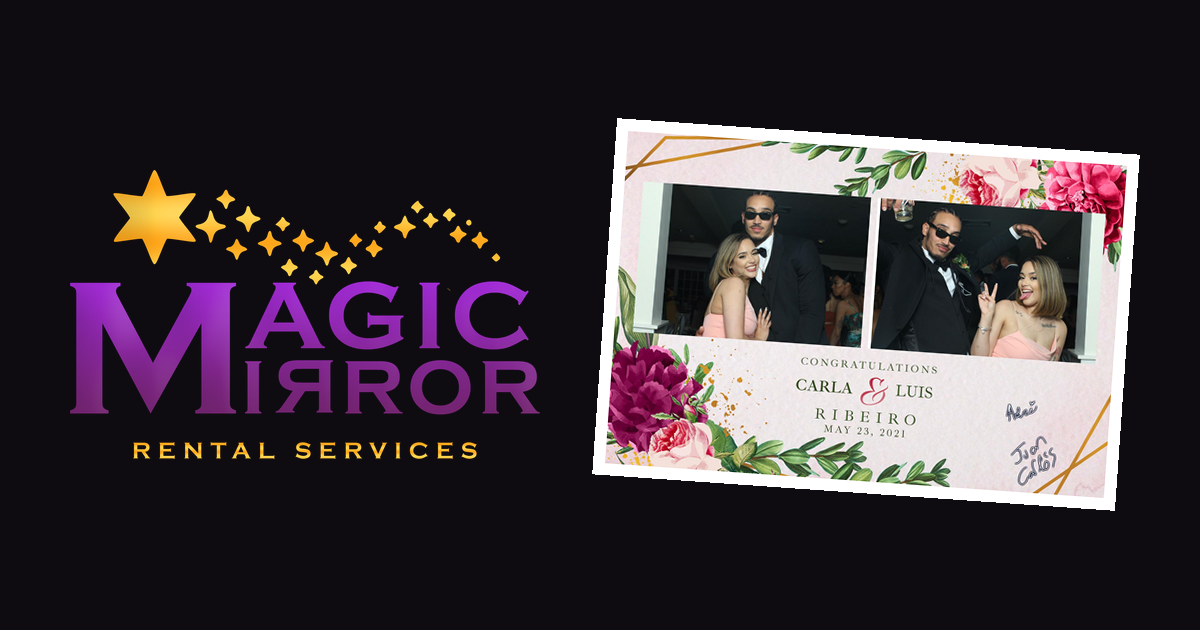
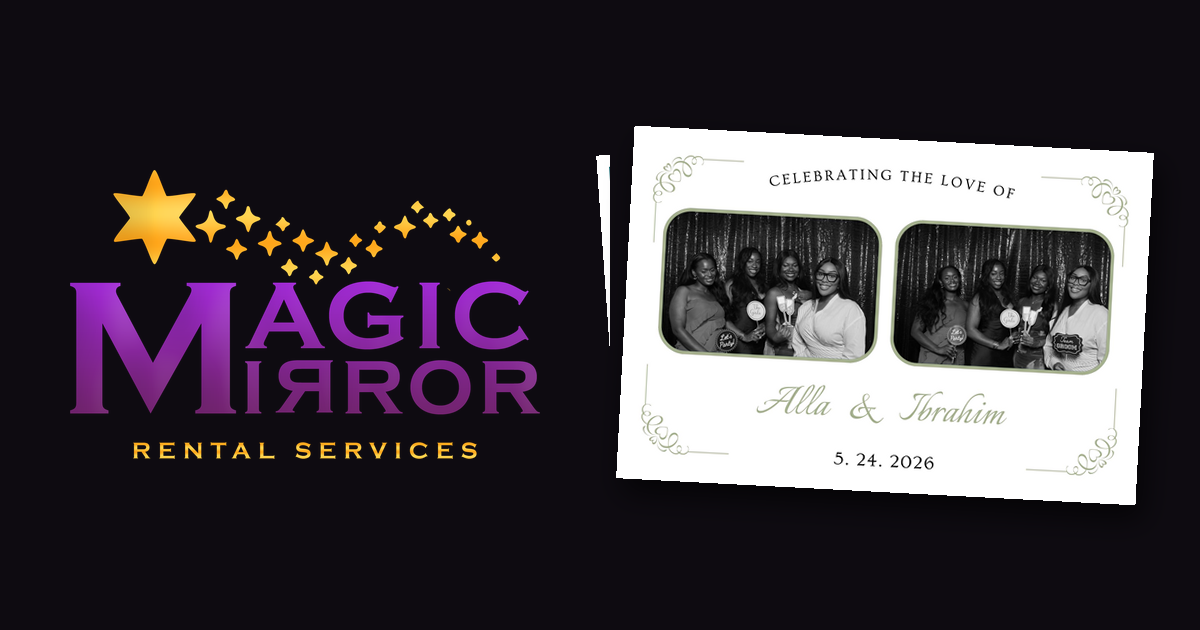
Newest prints on the home step, review photo, Magic Mirror page; rebuilt collage (every 5) and share images (every 3)
Claude-Session: https://claude.ai/code/session_01CWhRRKPWNMwNRg2cs9Nr1g

Changed region(s): [[0.4933, 0.181, 0.9867, 0.8143]]

diff --git a/public/pricing/index.html b/public/pricing/index.html
@@ -20,7 +20,7 @@
 <meta name="twitter:card" content="summary_large_image">
 <link rel="preload" href="/assets/fonts/montserrat-latin.woff2" as="font" type="font/woff2" crossorigin>
 <link rel="stylesheet" href="/assets/css/style.css?v=speed3">
-<script type="application/ld+json">{"@context": "https://schema.org", "@type": "LocalBusiness", "@id": "https://www.magicmirrorrentalservices.com/#business", "name": "Magic Mirror Rental Services", "description": "Magic Mirror photo booth rentals for weddings, corporate events, birthdays and special occasions across the Greater Boston Area.", "url": "https://www.magicmirrorrentalservices.com/", "logo": "https://www.magicmirrorrentalservices.com/images/brand/logo.webp", "image": "https://www.magicmirrorrentalservices.com/images/brand/og-image.png", "email": "inquiries@magicmirrorrentalservices.com", "foundingDate": "2019", "priceRange": "$650-$1100", "areaServed": {"@type": "Place", "name": "Greater Boston Area, Massachusetts"}, "sameAs": ["https://www.instagram.com/magicmirrorrentalservices/"], "makesOffer": [{"@type": "Offer", "name": "Bronze Package", "price": "650", "priceCurrency": "USD", "url": "https://www.magicmirrorrentalservices.com/pricing/", "itemOffered": {"@type": "Service", "name": "Magic Mirror photo booth rental, Bronze Package", "description": "Three hours of Magic Mirror photo booth service with unlimited photos, 4x6 prints, MMS and email sharing, and two on-site attendants."}}, {"@type": "Offer", "name": "Silver Package", "price": "850", "priceCurrency": "USD", "url": "https://www.magicmirrorrentalservices.com/pricing/", "itemOffered": {"@type": "Service", "name": "Magic Mirror photo booth rental, Silver Package", "description": "Four hours of Magic Mirror photo booth service with unlimited photos, 4x6 prints, MMS and email sharing, and two on-site attendants."}}, {"@type": "Offer", "name": "Gold Package", "price": "1100", "priceCurrency": "USD", "url": "https://www.magicmirrorrentalservices.com/pricing/", "itemOffered": {"@type": "Service", "name": "Magic Mirror photo booth rental, Gold Package", "description": "Five hours of Magic Mirror photo booth service with unlimited photos, 4x6 prints, MMS and email sharing, and two on-site attendants."}}]}</script>
+<script type="application/ld+json">{"@context": "https://schema.org", "@type": "LocalBusiness", "@id": "https://www.magicmirrorrentalservices.com/#business", "name": "Magic Mirror Rental Services", "description": "Magic Mirror photo booth rentals for weddings, corporate events, birthdays and special occasions across the Greater Boston Area.", "url": "https://www.magicmirrorrentalservices.com/", "logo": "https://www.magicmirrorrentalservices.com/images/brand/logo.webp", "image": "https://www.magicmirrorrentalservices.com/images/brand/og-image.png?v=1788655192435", "email": "inquiries@magicmirrorrentalservices.com", "foundingDate": "2019", "priceRange": "$650-$1100", "areaServed": {"@type": "Place", "name": "Greater Boston Area, Massachusetts"}, "sameAs": ["https://www.instagram.com/magicmirrorrentalservices/"], "makesOffer": [{"@type": "Offer", "name": "Bronze Package", "price": "650", "priceCurrency": "USD", "url": "https://www.magicmirrorrentalservices.com/pricing/", "itemOffered": {"@type": "Service", "name": "Magic Mirror photo booth rental, Bronze Package", "description": "Three hours of Magic Mirror photo booth service with unlimited photos, 4x6 prints, MMS and email sharing, and two on-site attendants."}}, {"@type": "Offer", "name": "Silver Package", "price": "850", "priceCurrency": "USD", "url": "https://www.magicmirrorrentalservices.com/pricing/", "itemOffered": {"@type": "Service", "name": "Magic Mirror photo booth rental, Silver Package", "description": "Four hours of Magic Mirror photo booth service with unlimited photos, 4x6 prints, MMS and email sharing, and two on-site attendants."}}, {"@type": "Offer", "name": "Gold Package", "price": "1100", "priceCurrency": "USD", "url": "https://www.magicmirrorrentalservices.com/pricing/", "itemOffered": {"@type": "Service", "name": "Magic Mirror photo booth rental, Gold Package", "description": "Five hours of Magic Mirror photo booth service with unlimited photos, 4x6 prints, MMS and email sharing, and two on-site attendants."}}]}</script>
 </head>
 <body>
 <a class="skip" href="#main">Skip to content</a>

diff --git a/public/index.html b/public/index.html
@@ -85,7 +85,9 @@
   <ol class="sc-steps reveal">
     <li><img src="/images/magic-mirror/9876.webp" width="1000" height="750" alt="A guest at the Magic Mirror, pointing at the glowing on-screen prompt" loading="lazy"><h3>They see themselves</h3><p>The full-length mirror shows guests their pose as the photo is taken, with animations and voice guidance leading the way.</p></li>
     <li><img src="/images/magic-mirror/pose-prop-group.webp" width="1000" height="800" alt="A group of friends in formal wear striking poses in front of a blue sequin backdrop" loading="lazy"><h3>They bring the crew</h3><p>Friends pile into frame, and our attendants make sure everyone fits.</p></li>
-    <li><img src="/images/gallery/1715916052182.webp" srcset="/images/gallery/1715916052182-sm.webp 480w, /images/gallery/1715916052182-thumb.webp 800w, /images/gallery/1715916052182.webp 1600w" sizes="(max-width: 900px) 38vw, 33vw" width="1500" height="1000" alt="A 4x6 print from Suffolk Law’s Barrister’s Ball at the Fairmont Copley Plaza" loading="lazy"><h3>They print</h3><p>Every session prints a 4x6 in seconds to take home, and guests can text or email their photos to themselves.</p></li>
+    <!-- events:home-step-print (built from content/events.txt, do not edit by hand) -->
+<li><img src="/images/gallery/1788655192435.webp" srcset="/images/gallery/1788655192435-sm.webp 480w, /images/gallery/1788655192435-thumb.webp 800w, /images/gallery/1788655192435.webp 1600w" sizes="(max-width: 900px) 38vw, 33vw" width="1600" height="1067" alt="A 4x6 print from Laury and Heroldens’ baby shower, September 2026" loading="lazy"><h3>They print</h3>
+<!-- /events:home-step-print --><p>Every session prints a 4x6 in seconds to take home, and guests can text or email their photos to themselves.</p></li>
   </ol>
 </section>
 
@@ -159,7 +161,9 @@
 </section>
 
 <section class="wrap voice" aria-label="What clients say">
-  <figure class="voice-print reveal"><img src="/images/gallery/1636174311505.webp" srcset="/images/gallery/1636174311505-thumb.webp 800w, /images/gallery/1636174311505.webp 1600w" sizes="(max-width: 900px) 100vw, 50vw" width="1500" height="1000" alt="Print from the BU African Student Organization Soirée" loading="lazy"></figure>
+  <!-- events:home-voice-print (built from content/events.txt, do not edit by hand) -->
+<figure class="voice-print reveal"><img src="/images/gallery/1775354153323.webp" srcset="/images/gallery/1775354153323-thumb.webp 800w, /images/gallery/1775354153323.webp 1600w" sizes="(max-width: 900px) 100vw, 50vw" width="1600" height="1067" alt="Print from NBSA’s Evening of Elegance, April 2026" loading="lazy"></figure>
+<!-- /events:home-voice-print -->
   <blockquote class="voice-quote reveal"><p>“Thank you for collaborating with us for the Soiree! ASO was very grateful for your attendance. All of our guests expressed that they loved the Magic Mirror.”</p><footer>BU African Student Organization</footer>
 <!-- events:home-wall-pool (built from content/events.txt, do not edit by hand) -->
 </blockquote>
@@ -192,7 +196,7 @@
 
 <section class="closing" aria-labelledby="closing-title">
   <div class="wrap closing-band reveal">
-    <img src="/images/magic-mirror/cta-collage.webp" width="1000" height="562" alt="Finished prints from a masquerade ball, a wedding, a senior prom, an honor ball and a celebration" loading="lazy">
+    <img src="/images/magic-mirror/cta-collage.webp?v=1788655192435" width="1000" height="562" alt="Finished prints from Laury and Heroldens’ baby shower, Alla and Ibrahim’s wedding, NBSA’s Evening of Elegance, Junior Tassel and Medicine Design Symposium" loading="lazy">
     <div class="closing-text"><h2 id="closing-title">Ready to save your date?</h2><p>Booking online takes a few minutes. You will see open dates and packages right away.</p></div>
     <a class="btn" href="/booking/">Check availability</a>
   </div>

diff --git a/public/magic-mirror/index.html b/public/magic-mirror/index.html
@@ -68,7 +68,9 @@
     <li id="mirror-me-booth-animation"><figure><img src="/images/magic-mirror/bk-mirror-021544112480.webp" width="1000" height="500" alt="The mirror glowing with Touch here to start" loading="lazy"></figure><h3>Touch to start</h3><p>Built-in animations invite guests up to the glass. They can be tailored to your event and run in several languages.</p></li>
     <li id="pose-prop-print"><figure><img src="/images/magic-mirror/pose-prop-group.webp" width="1000" height="800" alt="A group of friends in formal wear striking poses in front of a blue sequin backdrop" loading="lazy"></figure><h3>Pose and prop</h3><p>A voice countdown leads the shot. Our attendants help with poses and props, and a DSLR with studio lighting captures it.</p></li>
     <li id="photo-retake"><figure><img src="/images/magic-mirror/987e60_b7dc5ff8748f40ff891f390a6a76e542_mv2.webp" width="960" height="1280" alt="Guests posing in front of the mirror" loading="lazy"></figure><h3>Retake if you like</h3><p>Guests can retake any shot before it prints.</p></li>
-    <li><figure class="print"><img src="/images/gallery/1668734329637.webp" width="1500" height="1000" alt="A finished Kids Night 2022 print with three photos" loading="lazy"></figure><h3>Print and share</h3><p>A 4x6 print in seconds, plus a copy by text or email, and the shot lands in your event’s digital gallery.</p></li>
+    <li><!-- events:mm-print (built from content/events.txt, do not edit by hand) -->
+<figure class="print"><img src="/images/gallery/1779667313735.webp" width="1600" height="1067" alt="A finished print from Alla and Ibrahim’s wedding, May 2026" loading="lazy"></figure>
+<!-- /events:mm-print --><h3>Print and share</h3><p>A 4x6 print in seconds, plus a copy by text or email, and the shot lands in your event’s digital gallery.</p></li>
   </ol>
 </section>
 
@@ -90,7 +92,7 @@
 
 <section class="closing" aria-labelledby="closing-title">
   <div class="wrap closing-band reveal">
-    <img src="/images/magic-mirror/cta-collage.webp" width="1000" height="562" alt="Finished prints from a masquerade ball, a wedding, a senior prom, an honor ball and a celebration" loading="lazy">
+    <img src="/images/magic-mirror/cta-collage.webp?v=1788655192435" width="1000" height="562" alt="Finished prints from Laury and Heroldens’ baby shower, Alla and Ibrahim’s wedding, NBSA’s Evening of Elegance, Junior Tassel and Medicine Design Symposium" loading="lazy">
     <div class="closing-text"><h2 id="closing-title">Bring the mirror to your event</h2><p>Booking online takes a few minutes. You will see open dates and packages right away.</p></div>
     <a class="btn" href="/booking/">Check availability</a>
   </div>

diff --git a/public/template-gallery/index.html b/public/template-gallery/index.html
@@ -14,7 +14,7 @@
 <meta property="og:description" content="Browse photo booth print overlay templates. Hundreds more available, and any template can be customized.">
 <meta property="og:url" content="https://www.magicmirrorrentalservices.com/template-gallery/">
 <meta property="og:type" content="website">
-<meta property="og:image" content="https://www.magicmirrorrentalservices.com/images/brand/og-template-gallery.png">
+<meta property="og:image" content="https://www.magicmirrorrentalservices.com/images/brand/og-template-gallery.png?v=1788655192435">
 <meta property="og:image:width" content="1200">
 <meta property="og:image:height" content="630">
 <meta name="twitter:card" content="summary_large_image">

diff --git a/public/gallery/index.html b/public/gallery/index.html
@@ -14,7 +14,7 @@
 <meta property="og:description" content="Real Magic Mirror photo booth prints from weddings, proms, galas, birthdays and campus events across Greater Boston since 2019.">
 <meta property="og:url" content="https://www.magicmirrorrentalservices.com/gallery/">
 <meta property="og:type" content="website">
-<meta property="og:image" content="https://www.magicmirrorrentalservices.com/images/brand/og-gallery.png">
+<meta property="og:image" content="https://www.magicmirrorrentalservices.com/images/brand/og-gallery.png?v=1788655192435">
 <meta property="og:image:width" content="1200">
 <meta property="og:image:height" content="630">
 <meta name="twitter:card" content="summary_large_image">

diff --git a/public/404.html b/public/404.html
@@ -13,7 +13,7 @@
 <meta property="og:title" content="Page Not Found — Magic Mirror Rental Services">
 <meta property="og:description" content="Magic Mirror photo booth rentals for weddings, corporate events, birthdays and special occasions across the Greater Boston Area.">
 <meta property="og:type" content="website">
-<meta property="og:image" content="https://www.magicmirrorrentalservices.com/images/brand/og-image.png">
+<meta property="og:image" content="https://www.magicmirrorrentalservices.com/images/brand/og-image.png?v=1788655192435">
 <meta property="og:image:width" content="1200">
 <meta property="og:image:height" content="630">
 <meta name="twitter:card" content="summary_large_image">

diff --git a/scripts/build-events.py b/scripts/build-events.py
@@ -12,6 +12,9 @@ What it updates:
 - public/links/            "Latest Events" (4 newest) and the header wall
 - brochure/ + public/brochure/magic-mirror-brochure.pdf   page 5 "Prints from the mirror" (6 newest)
 - public/index.html        "Your event, on paper": the 5 newest prints of each event type, on every run
+- public/index.html + magic-mirror/   "They print" step (newest), Magic Mirror page print (2nd), review photo (3rd), every run
+- cta-collage.webp         "Ready to save your date?" collage of the 5 newest, every COLLAGE_EVERY events (--collage forces)
+- og-gallery/og-image/og-template-gallery.png   link-share images, every SHARE_EVERY events (--share forces)
 - public/index.html        print wall and its rotating pool, plus the /links header wall that copies it, only once
                            HOME_EVERY new events have been added since the last refresh (content/home-last-built.txt)
 
@@ -24,13 +27,17 @@ from PIL import Image
 ROOT = Path(__file__).resolve().parent.parent
 LIST = ROOT / "content" / "events.txt"
 HOME_MARK = ROOT / "content" / "home-last-built.txt"
+COLLAGE_MARK = ROOT / "content" / "collage-last-built.txt"
+SHARE_MARK = ROOT / "content" / "share-last-built.txt"
 SRC = ROOT / "src-images" / "gallery"
 WEB = ROOT / "public" / "images" / "gallery"
 BROCHURE = ROOT / "brochure"
 PDF = ROOT / "public" / "brochure" / "magic-mirror-brochure.pdf"
 
 TYPES = ["Weddings", "Birthdays", "Graduations & proms", "Galas & balls", "Campus nights", "Corporate", "Baby showers"]
-HOME_EVERY = 4      # refresh the home page after this many new events
+HOME_EVERY = 4      # refresh the print walls after this many new events
+COLLAGE_EVERY = 5   # "Ready to save your date?" collage
+SHARE_EVERY = 3     # link-share images
 WALL, POOL = 16, 14  # home page wall tiles, extra prints that rotate in
 PICKS = 5           # prints per tab in "Your event, on paper"
 LATEST = 4          # /links Latest Events
@@ -217,14 +224,106 @@ def build_picker(events):
     return replace_block(path, "home-picker", picker)
 
 
-def home_due(events, force):
-    last = HOME_MARK.read_text().strip() if HOME_MARK.exists() else ""
+def due(events, mark, every, force):
+    """True once `every` new events sit above the one recorded in `mark` (then records the newest)."""
+    last = mark.read_text().strip() if mark.exists() else ""
     files = [e["file"] for e in events]
     new = files.index(last) if last in files else len(files)
-    if force or new >= HOME_EVERY:
-        HOME_MARK.write_text(files[0] + "\n")
+    if force or new >= every:
+        mark.write_text(files[0] + "\n")
         return True, new
     return False, new
+
+
+# ---------- single prints that always show the newest events ----------
+def build_featured(events):
+    """Home "They print" step (newest), Magic Mirror page print (2nd newest), home review photo (3rd newest)."""
+    named = [e for e in shown(events) if e["name"]]
+    g = "/images/gallery/"
+    step, mm, voice = named[0], named[1], named[2]
+    a = replace_block(ROOT / "public" / "index.html", "home-step-print",
+        f'<li><img src="{g}{step["stem"]}.webp" srcset="{g}{step["stem"]}-sm.webp 480w, {g}{step["stem"]}-thumb.webp 800w, {g}{step["stem"]}.webp 1600w" '
+        f'sizes="(max-width: 900px) 38vw, 33vw" width="{step["fw"]}" height="{step["fh"]}" alt="A 4x6 print from {esc(label(step))}" loading="lazy"><h3>They print</h3>')
+    b = replace_block(ROOT / "public" / "index.html", "home-voice-print",
+        f'<figure class="voice-print reveal"><img src="{g}{voice["stem"]}.webp" srcset="{g}{voice["stem"]}-thumb.webp 800w, {g}{voice["stem"]}.webp 1600w" '
+        f'sizes="(max-width: 900px) 100vw, 50vw" width="{voice["fw"]}" height="{voice["fh"]}" alt="Print from {esc(label(voice))}" loading="lazy"></figure>')
+    c = replace_block(ROOT / "public" / "magic-mirror" / "index.html", "mm-print",
+        f'<figure class="print"><img src="{g}{mm["stem"]}.webp" width="{mm["fw"]}" height="{mm["fh"]}" alt="A finished print from {esc(label(mm))}" loading="lazy"></figure>')
+    return a or b or c
+
+
+# ---------- images made from several prints ----------
+def framed(e, width, border):
+    im = Image.open(SRC / e["file"]).convert("RGB")
+    im = im.resize((width, round(im.height * width / im.width)), Image.LANCZOS)
+    out = Image.new("RGB", (im.width + 2 * border, im.height + 2 * border), "white")
+    out.paste(im, (border, border))
+    return out
+
+
+def shadowed(canvas, im, xy, angle=0.0, blur=18, alpha=150):
+    from PIL import ImageFilter
+    im = im.convert("RGBA").rotate(angle, resample=Image.BICUBIC, expand=True)
+    sh = Image.new("RGBA", im.size, (0, 0, 0, 0))
+    sh.putalpha(im.getchannel("A").point(lambda v: alpha if v else 0))
+    pad = blur * 3
+    big = Image.new("RGBA", (im.width + 2 * pad, im.height + 2 * pad), (0, 0, 0, 0))
+    big.paste(sh, (pad, pad))
+    big = big.filter(ImageFilter.GaussianBlur(blur))
+    canvas.alpha_composite(big, (xy[0] - pad + 6, xy[1] - pad + 14))
+    canvas.alpha_composite(im, xy)
+
+
+def bump_version(tag, paths, key):
+    """Images under /images/ are cached for 30 days, so a rebuilt image gets a new ?v= in every page that uses it."""
+    for page in (ROOT / "public").rglob("*.html"):
+        t = page.read_text(encoding="utf-8")
+        n = t
+        for p in paths:
+            n = re.sub(re.escape(p) + r"(\?v=[\w-]+)?", p + "?v=" + key, n)
+        if n != t:
+            page.write_text(n, encoding="utf-8")
+
+
+def build_collage(events):
+    """The "Ready to save your date?" collage: the 5 newest named prints."""
+    picks = [e for e in shown(events) if e["name"]][:5]
+    W, H = 1320, 742
+    c = Image.new("RGBA", (W, H), (20, 12, 24, 255))
+    spots = [((-110, -70), 3.0), ((850, -80), -3.5), ((-80, 380), -2.5), ((860, 400), 2.5)]
+    for e, (xy, ang) in zip(picks[1:], spots):
+        shadowed(c, framed(e, 560, 10), xy, ang)
+    shadowed(c, framed(picks[0], 780, 12), (262, 118), 0, blur=24, alpha=190)
+    c = c.convert("RGB")
+    c.save(ROOT / "src-images" / "magic-mirror" / "cta-collage.jpg", "JPEG", quality=90)
+    c.resize((1000, round(H * 1000 / W)), Image.LANCZOS).save(ROOT / "public" / "images" / "magic-mirror" / "cta-collage.webp", "WEBP", quality=82, method=6)
+    names = [e["name"] for e in picks]
+    altxt = "Finished prints from " + ", ".join(names[:-1]) + " and " + names[-1]
+    for page in (ROOT / "public").rglob("*.html"):
+        t = page.read_text(encoding="utf-8")
+        n = re.sub(r'(<img src="/images/magic-mirror/cta-collage\.webp[^"]*" width="\d+" height="\d+" alt=")[^"]*(")', lambda m: m.group(1) + esc(altxt) + m.group(2), t)
+        if n != t:
+            page.write_text(n, encoding="utf-8")
+    bump_version("collage", ["/images/magic-mirror/cta-collage.webp"], picks[0]["stem"])
+
+
+SHARE_IMAGES = ["og-gallery.png", "og-image.png", "og-template-gallery.png"]
+
+
+def build_share(events):
+    """Link-share images (1200x630): logo on the left, one of the 3 newest prints tilted on the right."""
+    base = Image.open(ROOT / "content" / "share-base.png").convert("RGBA")
+    picks = [e for e in shown(events) if e["name"]][:3]
+    for name, e, ang in zip(SHARE_IMAGES, picks, (3.0, -3.0, 2.0)):
+        c = base.copy()
+        im = framed(e, 500, 10)
+        rot = im.convert("RGBA").rotate(ang, resample=Image.BICUBIC, expand=True)
+        shadowed(c, im, (885 - rot.width // 2, 315 - rot.height // 2), ang, blur=14, alpha=170)
+        out = c.convert("RGB")
+        out.save(ROOT / "public" / "images" / "brand" / name, optimize=True)
+        if name == "og-image.png":  # optimize-images.py copies this one from src-images
+            out.save(ROOT / "src-images" / "brand" / name, optimize=True)
+    bump_version("share", [f"/images/brand/{n}" for n in SHARE_IMAGES], picks[0]["stem"])
 
 
 # ---------- brochure ----------
@@ -288,8 +387,22 @@ def main():
         report.append("/links updated")
     if build_picker(events):
         report.append('home "Your event, on paper" updated')
-    due, new = home_due(events, "--home" in args)
-    if due:
+    if build_featured(events):
+        report.append("home print step, review photo and Magic Mirror page print updated")
+    ok, new = due(events, COLLAGE_MARK, COLLAGE_EVERY, "--collage" in args)
+    if ok:
+        build_collage(events)
+        report.append("collage rebuilt")
+    else:
+        report.append(f"collage waits ({new} of {COLLAGE_EVERY})")
+    ok, new = due(events, SHARE_MARK, SHARE_EVERY, "--share" in args)
+    if ok:
+        build_share(events)
+        report.append("share images rebuilt")
+    else:
+        report.append(f"share images wait ({new} of {SHARE_EVERY})")
+    ok, new = due(events, HOME_MARK, HOME_EVERY, "--home" in args)
+    if ok:
         report.append("print walls updated" if build_walls(events) else "print walls already current")
     else:
         report.append(f"print walls wait ({new} of {HOME_EVERY} new events since their last refresh)")

diff --git a/README.md b/README.md
@@ -27,6 +27,9 @@ and point the page at `/images/<folder>/<name>.webp`. The script needs Pillow (`
    - /links "Latest Events" (4 newest)
    - the hosted brochure PDF, page 5 (6 newest), from `brochure/brochure.html`
    - the home page "Your event, on paper" (5 newest prints of each event type)
+   - the home page "They print" step, review photo and the Magic Mirror page print (newest prints, every event)
+   - the "Ready to save your date?" collage, every 5 new events (`--collage` forces it)
+   - the link-share images og-gallery, og-image and og-template-gallery, every 3 new events (`--share` forces it)
    - the home page print wall and the /links header wall, once 4 new events have been added since their last refresh (`content/home-last-built.txt`; run `python3 scripts/build-events.py --home` to refresh them sooner)
 
 To run it yourself: `python3 scripts/build-events.py` (needs Pillow; the PDF also needs Node with Playwright).
